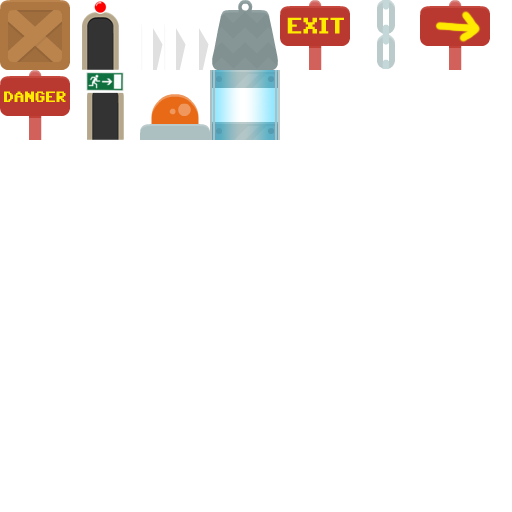
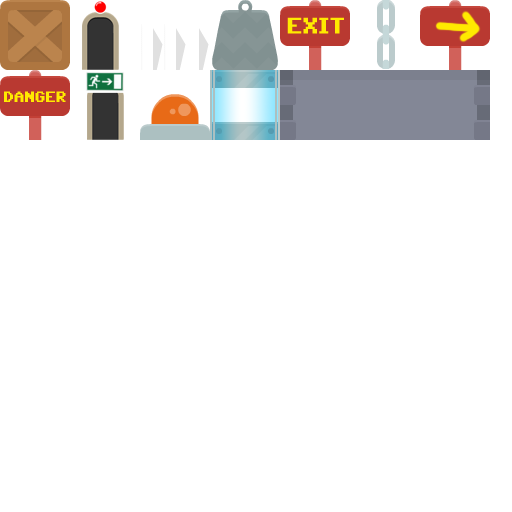
fixed merge issues

Changed region(s): [[0.5312, 0.125, 0.9688, 0.2812]]

diff --git a/src/Level.js b/src/Level.js
@@ -188,7 +188,7 @@ define([
     {
         var group = game.add.group();
 
-        this.map.createFromObjects('Objects', 60, 'platformLeft', 0, true, false, group);
+        this.map.createFromObjects('Objects', 61, 'platformLeft', 0, true, false, group);
 
         for (var i = 0; i < group.children.length; i++)
         {
